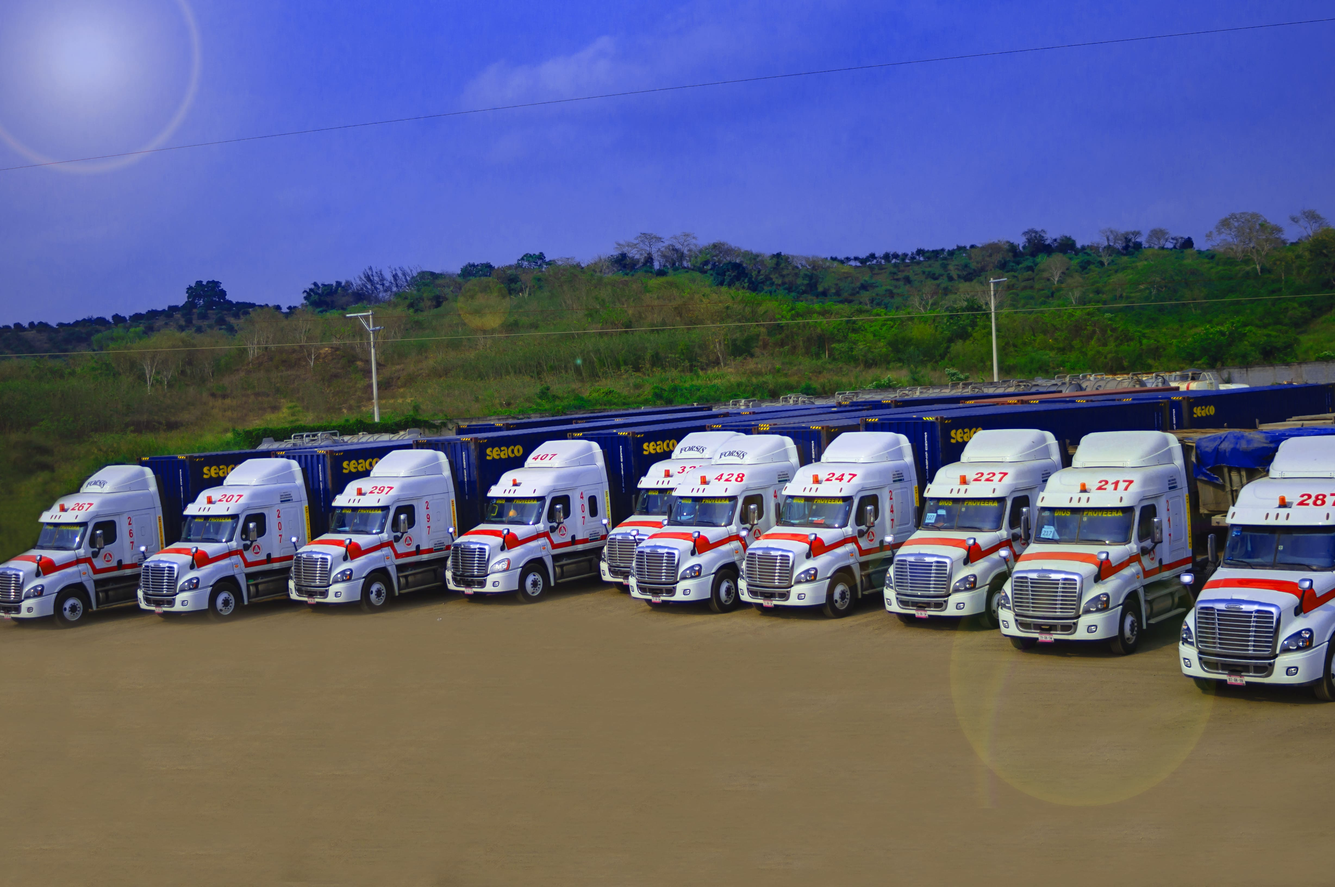
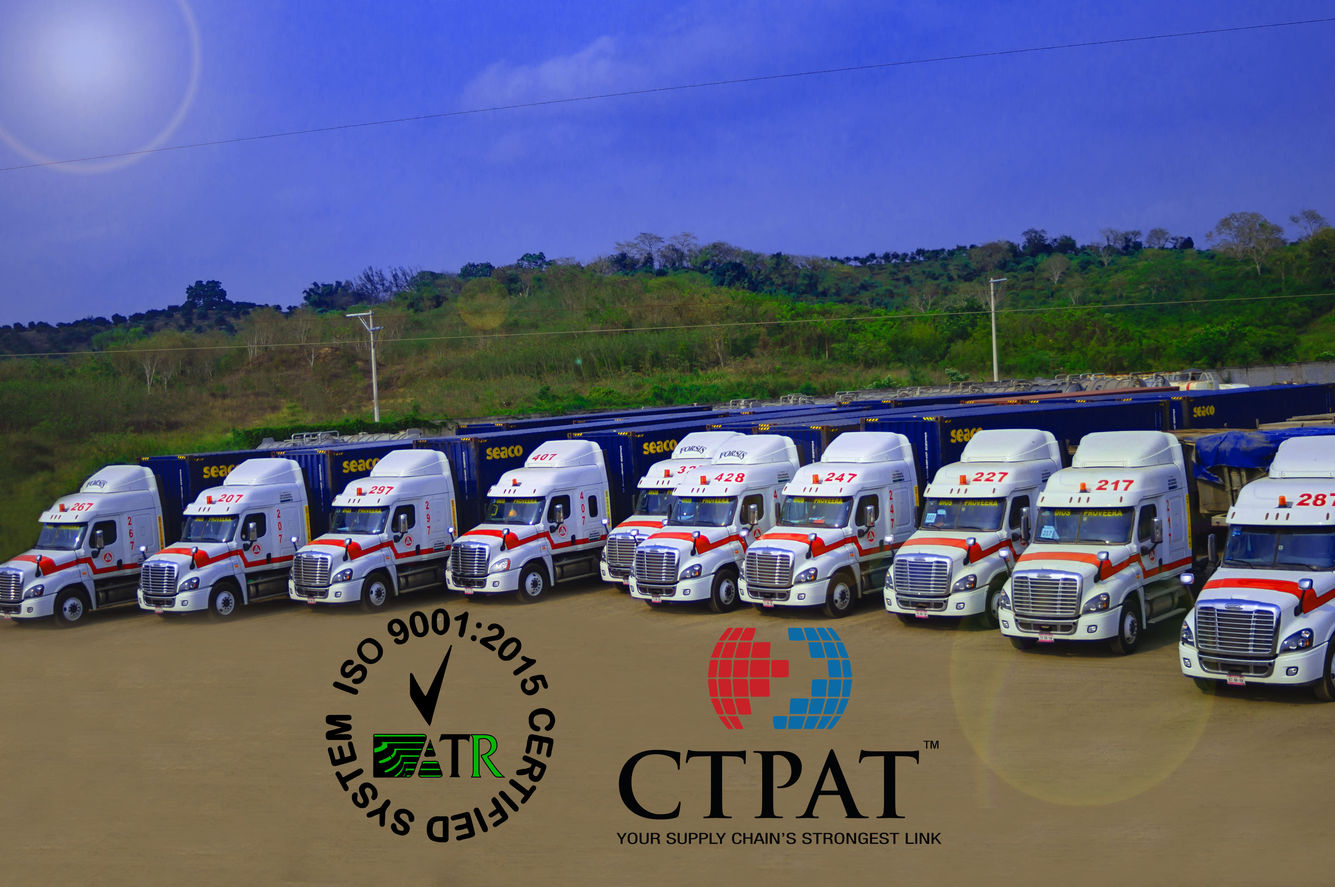
Index Update

Changed region(s): [[0.4672, 0.6875, 0.7164, 0.9688], [0.2492, 0.6875, 0.4361, 0.9688]]

diff --git a/gero.html b/gero.html
@@ -293,16 +293,7 @@
                                 <div class="flexslider">
                                     <div class="slider-wrap">
                                         <div class="slide">
-                                            <a href="#"><img src="images/portfolio/single/full/Equipo/patio1.jpg"></a>
-                                        </div>
-                                        <div class="slide">
-                                            <a href="#"><img src="images/portfolio/single/full/Equipo/patio2.jpg" alt=""></a>
-                                        </div>
-                                        <div class="slide">
-                                            <a href="#"><img src="images/portfolio/single/full/Equipo/patio3.jpg" alt=""></a>
-                                        </div>
-                                        <div class="slide">
-                                            <a href="#"><img src="images/portfolio/single/full/Equipo/patio4.jpg" alt=""></a>
+                                            <a href="#"><img src="images/portfolio/single/full/Equipo/gero1.jpg"></a>
                                         </div>
                                     </div>
                                 </div>
